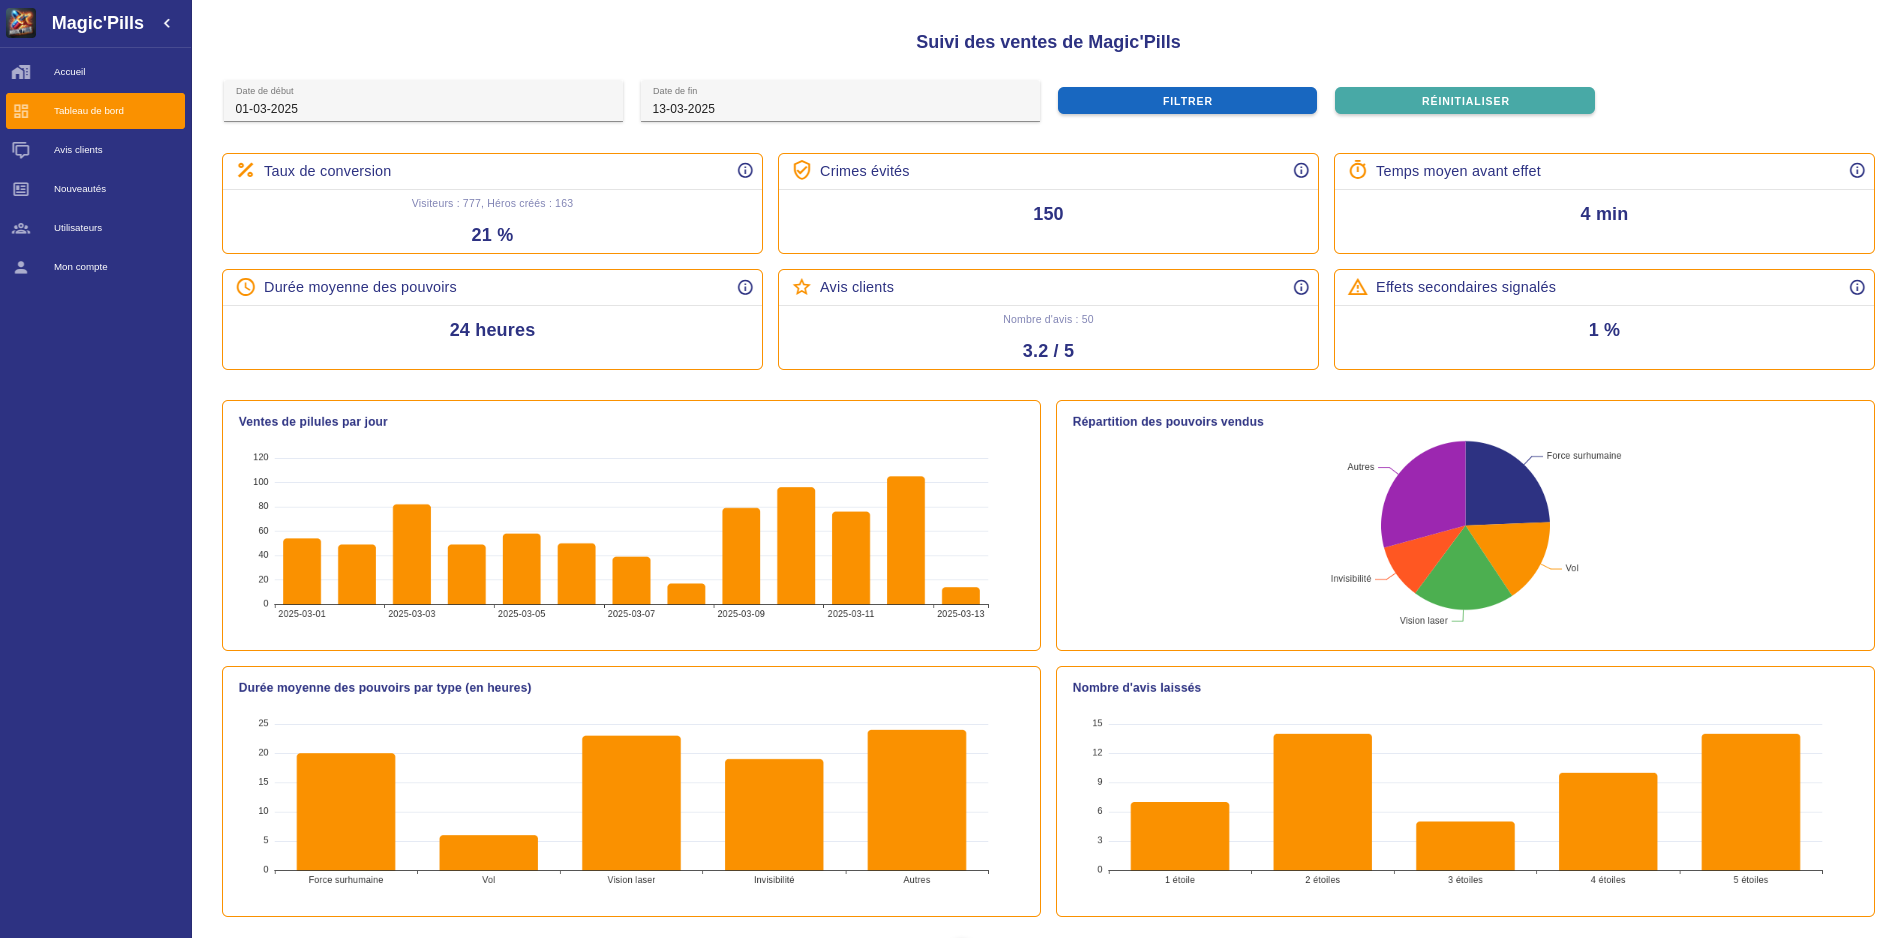
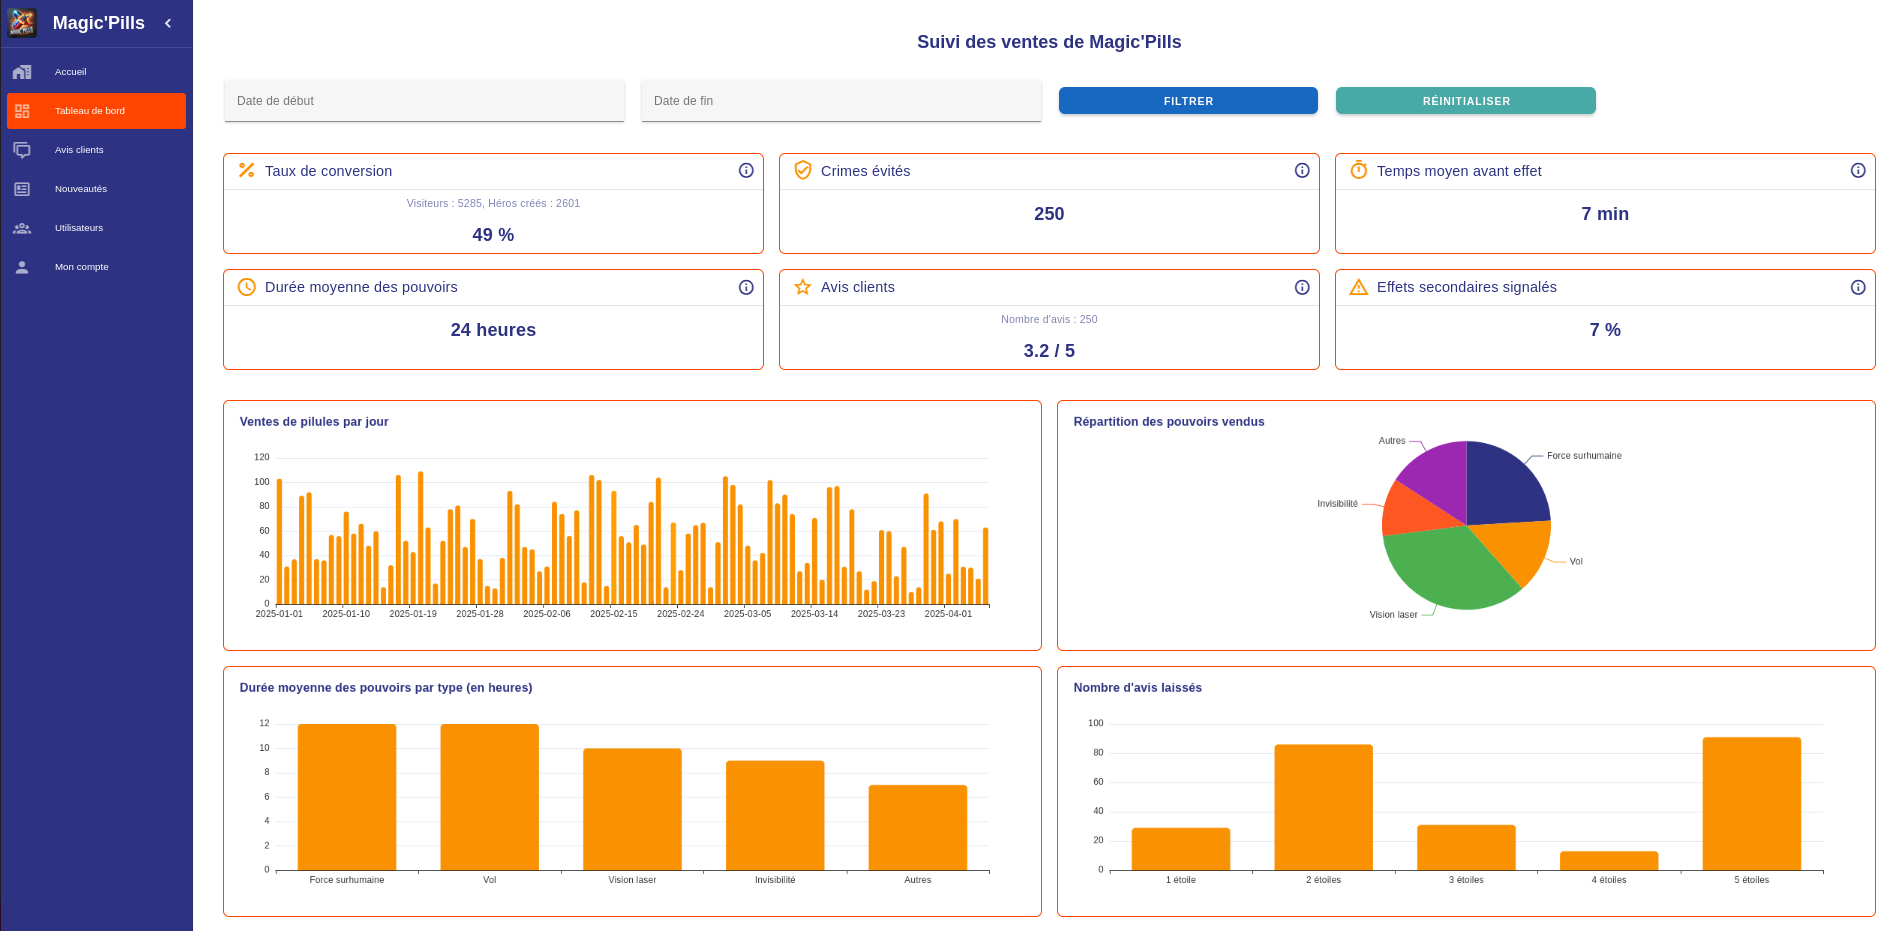
Dev (#17)
* refactor: enhance KpiChart component with customizable bar colors and improved styling

* refactor: clean up code structure and improve type definitions in dashboard

* refactor: enhance KpiCard and KpiChart components with improved layout and styling

* feat: init implementation of date filtering in dashboard data retrieval and enhance sales data generation

* refacto: create DatePicker component for enhanced date selection functionality

* refactor: enhance DatePicker component with improved styling and French localization

* refactor: remove border-radius from DatePicker component for a cleaner design

* refactor: improve comments in DatePicker component for better clarity

* refactor: update styling in DatePicker and DashboardView components for improved aesthetics

* refactor: simplify imports and clean up unused code in KpiChart component

* chore: correct typo in TODO comment for style relocation in DashboardView component

* feat: enhance dashboard functionality and documentation for Vue 3 practice

* refactor: add show-adjacent-months prop and improve date formatting in DatePicker component

* feat: add date-fns for date formatting and update DatePicker and dashboard components

* refactor: remove date formatting from fetchData function in DashboardView

* refactor: remove duplicate comments in generateSalesData function in mockData service

* refactor: remove redundant comment in fetchMockDashboardData function in mockApi service
[…]

diff --git a/src/styles/pages/landingPage.scss b/src/styles/pages/landingPage.scss
@@ -28,8 +28,8 @@
   .btn {
     display: inline-block;
     margin-top: 2rem;
-    padding: 1rem;
-    font-size: 1.5rem;
+    padding: 0.75rem;
+    font-size: 1.25rem;
     color: $background-color;
     background-color: $secondary-color;
     border-radius: $border-radius;
@@ -40,4 +40,34 @@
       background-color: color.adjust($secondary-color, $lightness: -10%);
     }
   }
+}
+
+@keyframes subtle-move {
+  0% {
+    transform: translateY(0);
+  }
+  50% {
+    transform: translateY(-15px);
+  }
+  100% {
+    transform: translateY(0);
+  }
+}
+
+/* Style pour le texte "superhéros" */
+.superhero {
+  font-size: 2rem !important;
+  font-weight: bold;
+  color: #2d3282;
+  text-shadow: 2px 2px 5px rgba(0, 0, 0, 0.3);
+  text-align: center;
+  animation: subtle-move 3s infinite ease-in-out;
+}
+
+/* Style pour le mot "BOOM" */
+.boom {
+  color: #ff4500;
+  font-size: 2.2rem;
+  text-shadow: 3px 3px 8px rgba(0, 0, 0, 0.4);
+  font-style: italic;
 }

diff --git a/src/views/LandingPageView.vue b/src/views/LandingPageView.vue
@@ -12,35 +12,5 @@
 <script setup lang="ts"></script>
 
 <style scoped lang="scss">
-/* Animation de mouvement subtil */
-@keyframes subtle-move {
-  0% {
-    transform: translateY(0);
-  }
-  50% {
-    transform: translateY(-15px);
-  }
-  100% {
-    transform: translateY(0);
-  }
-}
-
-/* Style pour le texte "superhéros" */
-.superhero {
-  font-size: 2rem;
-  font-weight: bold;
-  color: #ff4500;
-  text-shadow: 2px 2px 5px rgba(0, 0, 0, 0.3);
-  text-align: center;
-  line-height: 1.5;
-  animation: subtle-move 3s infinite ease-in-out;
-}
-
-/* Style pour le mot "BOOM" */
-.boom {
-  color: #007bff;
-  font-size: 2.2rem;
-  text-shadow: 3px 3px 8px rgba(0, 0, 0, 0.4);
-  font-style: italic;
-}
+/* style dans landingPage.scss */
 </style>

diff --git a/src/styles/base.scss b/src/styles/base.scss
@@ -1,6 +1,6 @@
 // Couleurs communes
 $primary-color: #2d3282;
-$secondary-color: #fa9100;
+$secondary-color: #ff4500;
 $background-color: #fff;
 
 // Styles communs
